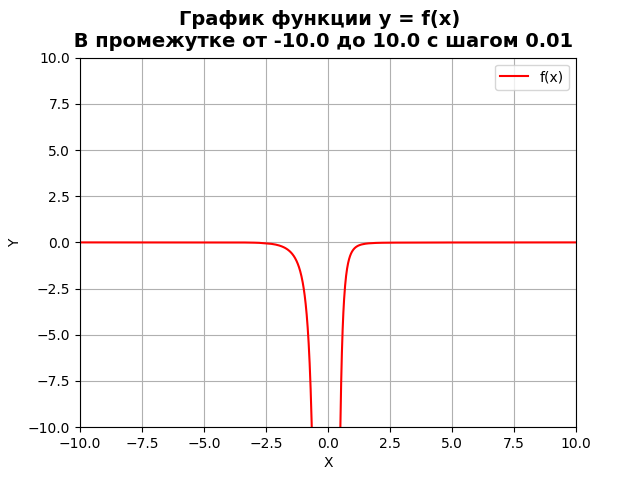
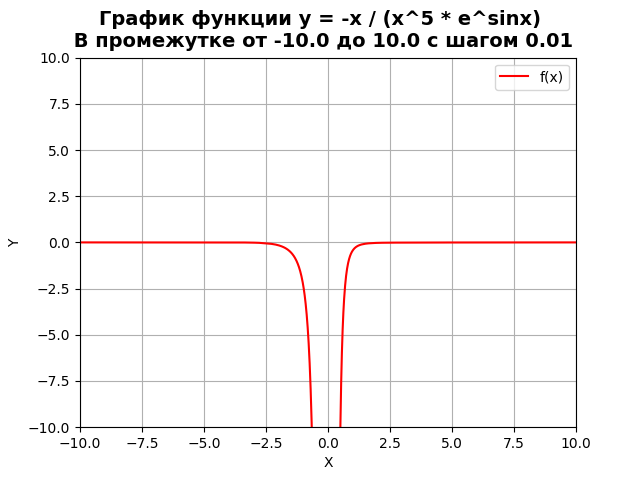
Сдано

Changed region(s): [[0.1562, 0.0, 0.8438, 0.0625]]

diff --git a/components/Entry.py b/components/Entry.py
@@ -4,17 +4,23 @@ from utils.validate import validate_float
 
 
 class Entry:
-    def __init__(self, frame, text, row, callback, strict_positive=False):
+    def __init__(self, frame, text, row, callback, strict_positive=False, max_len=-1):
+        self.max_len = max_len
         self.strict_positive = strict_positive
         self.callback = callback
 
         self.variable = tk.StringVar()
         self.variable.trace('w', self.onChange)
 
+        self.error_variable = tk.StringVar()
+
         self.label = tk.Label(frame, text=text)
         self.label.grid(row=row, column=1)
         self.entry = tk.Entry(frame, textvariable=self.variable)
         self.entry.grid(row=row, column=2)
+
+        self.error_label = tk.Label(frame, text='', textvariable=self.error_variable)
+        self.error_label.grid(row=row, column=3)
 
         self.valid = False
 
@@ -38,7 +44,13 @@ class Entry:
             self.valid = False
             self.error = 'Значение не может быть отрицательным'
             self.entry.configure(background='red')
+        elif self.max_len != -1 and len(value) > self.max_len:
+            self.valid = False
+            self.error = f'Значение не может быть больше {self.max_len} знаков'
+            self.error_variable.set(self.error)
+            self.entry.configure(background='red')
         else:
             self.valid = True
             self.error = ''
             self.entry.configure(background='white')
+            self.error_variable.set(self.error)

diff --git a/components/Form.py b/components/Form.py
@@ -14,15 +14,14 @@ class Form:
 
         window.title("Табулирование функций tkinter")
         window.geometry("800x600")
-
-        label = tk.Label(window, text="Функция y = f(x)")
+        label = tk.Label(window, text="Функция y = -x / (x^5 * e^sinx)")
         label.pack()
 
         frame = tk.Frame(window, padx=10, pady=10)
         frame.pack(expand=True)
 
-        self.start = Entry(frame, 'Введите начальное значение', 3, self.update_error_field)
-        self.end = Entry(frame, 'Введите конечное значение', 4, self.update_error_field)
+        self.start = Entry(frame, 'Введите начальное значение', 3, self.update_error_field, max_len=5)
+        self.end = Entry(frame, 'Введите конечное значение', 4, self.update_error_field, max_len=5)
         self.step = Entry(frame, 'Введите значение шага', 5, self.update_error_field, strict_positive=True)
         self.show_table = CheckBox(frame, 'Показать таблицу', 6)
         self.save_table = CheckBox(frame, 'Сохранить таблицу', 7)

diff --git a/utils/tabulate.py b/utils/tabulate.py
@@ -3,7 +3,10 @@ import matplotlib.pyplot as plt
 
 
 def get_plot(start, end, delta, table):
-    title = f"""График функции y = f(x)\n В промежутке от {start} до {end} с шагом {delta}"""
+
+    function = "-x / (x^5 * e^sinx)"
+
+    title = f"""График функции y = {function}\n В промежутке от {start} до {end} с шагом {delta}"""
 
     x1 = []
     y1 = []
@@ -13,7 +16,7 @@ def get_plot(start, end, delta, table):
         x1.append(x)
         y1.append(value)
 
-    figure, ax = plt.subplots(1)
+    figure, ax = plt.subplots()
     figure.suptitle(title, fontsize=14, fontweight='bold')
     ax.plot(x1, y1, label='f(x)', color='red')
 
@@ -24,7 +27,7 @@ def get_plot(start, end, delta, table):
     ax.set_ylabel("Y")
     ax.legend()
     ax.grid()
-    return figure, ax
+    return figure
 
 
 def getMax(list):

diff --git a/components/Output.py b/components/Output.py
@@ -6,11 +6,12 @@ from matplotlib.backends.backend_tkagg import (FigureCanvasTkAgg,
 
 class Output:
     def __init__(self, table_str, figure, show_table, show_plot):
+
         if not (show_plot or show_table):
             return
         self.window = tk.Tk()
         self.window.title("Вывод результата табуляции")
-        self.window.geometry("1024x800")
+        self.window.state('zoomed')
 
         if show_plot:
             self.show_plot(figure)
@@ -29,8 +30,7 @@ class Output:
         canvas = FigureCanvasTkAgg(figure,
                                    master=self.window)
         canvas.draw()
-        toolbar = NavigationToolbar2Tk(canvas,
-                                       self.window)
+        toolbar = NavigationToolbar2Tk(canvas,self.window)
         toolbar.update()
         canvas.get_tk_widget().pack()
 

diff --git a/main.py b/main.py
@@ -12,7 +12,7 @@ def main(values):
 
     show_table, save_table, option = values["show_table"], values["save_table"], values["option"]
     show_plot = option in ["Показать", "Показать и сохранить"]
-    figure, ax = get_plot(start, end, delta, table)
+    figure = get_plot(start, end, delta, table)
 
     if save_table:
         with open('table.txt', 'w') as file:
